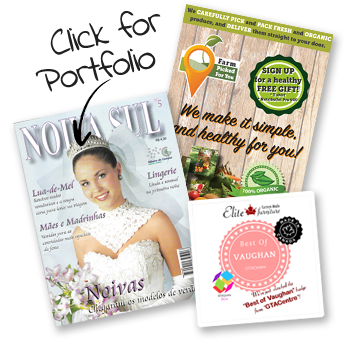
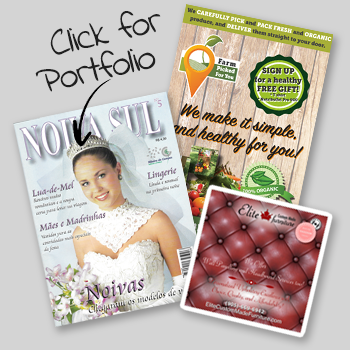
new landing page with new font and images

diff --git a/app/page.js b/app/page.js
@@ -6,6 +6,7 @@ import HomeHero from "@/components/Hero/HomeHero";
 //images
 import sample_work_1_M from "./../public/images/sample_work_1_M.png";
 import sample_work_1_L from "./../public/images/sample_work_1_L.png";
+import sample_work_Larger from "./../public/images/sample_Larger.png";
 import bottomrip from "./../public/images/transition2.png";
 import toprip from "./../public/images/transition1.png";
 //files
@@ -44,6 +45,11 @@ export default function Home() {
           <Image
             src={sample_work_1_L}
             className={`${styles.main__sampleWork_L}`}
+            alt="sample work"
+          />
+          <Image
+            src={sample_work_Larger}
+            className={`${styles.main__sampleWork_Larger}`}
             alt="sample work"
           />
         </Link>
@@ -148,22 +154,23 @@ export default function Home() {
           />
         </Link>
         <section className={`${styles.main__paragraphBlock_C}`}>
-          <p className={`${styles.main__paragraphIndie} ${indie.className}`}>
-            &ldquo; Curious about who is behind the scenes? Dive into the
-            captivating narratives of the
+          <p className={`${styles.main__paragraph} ${styles.main__firstP}`}>
+            Curious about who is behind the scenes? Dive into the captivating
+            narratives of the{" "}
             <Link className={`${styles.main__pageLink}`} href={"/about"}>
-              &nbsp;&ldquo;ABOUT&ldquo;&nbsp;
-            </Link>
+              ABOUT
+            </Link>{" "}
             and
             <Link className={`${styles.main__pageLink}`} href={"/portfolio"}>
-              &nbsp;&ldquo;PORTFOLIO&ldquo;&nbsp;
-            </Link>
-            section, where you&apos;ll learn more about the essence of my
+              {" "}
+              PORTFOLIO
+            </Link>{" "}
+            section, where you will learn more about the essence of my
             professional journey, and the driving force behind my work.
           </p>
-          <p className={`${styles.main__paragraphIndie} ${indie.className}`}>
+          <p className={`${styles.main__paragraph}`}>
             Let&apos;s create something extraordinary together. I can&apos;t
-            wait to connect with you! &ldquo;
+            wait to connect with you!
           </p>
         </section>
       </section>

diff --git a/app/page.module.scss b/app/page.module.scss
@@ -74,6 +74,9 @@
   &__sampleWork_L {
     display: none;
   }
+  &__sampleWork_Larger {
+    display: none;
+  }
   &__dLoad {
     margin: 0px 0px 80px 0px;
   }
@@ -264,7 +267,7 @@
     margin-top: 40px;
   }
   &__pageLink {
-    color: $yellow;
+    color: $red;
   }
 }
 
@@ -278,6 +281,7 @@
       margin-top: 60px;
     }
     &__wrapperBottom {
+      @include flex-row-start-start;
       width: 740px;
     }
     &__sampleWork_M {
@@ -308,11 +312,10 @@
       width: 740px;
       @include flex-row-spaceevenly-start-wrap;
       margin-top: 20px;
-      border-radius: 8px;
       padding: 20px;
     }
     &__paragraphBlock_C {
-      width: 640px;
+      width: 100%;
     }
 
     &__bottomrip {
@@ -349,11 +352,15 @@
       width: 1000px;
     }
     &__wrapperBottom {
+      @include flex-row-center-center;
       width: 1000px;
     }
-    &__sampleWork_L {
+    &__sampleWork_Larger {
       display: block;
-      margin: 50px 0px 50px 10px;
+      margin: 50px 0px 50px 0px;
+    }
+    &__sampleWork_L {
+      display: none;
     }
     &__paragraphBlockWrap {
       @include flex-row-spacearound-start;
@@ -374,10 +381,11 @@
       @include flex-row-spaceevenly-start-wrap;
     }
     &__paragraphBlock_C {
-      width: 800px;
+      @include flex-column-center-center;
+      width: 1000px;
     }
     &__paragraphBlock_C > p {
-      width: 800px;
+      width: 100%;
     }
     &__paragraph {
       width: 950px;
@@ -472,9 +480,9 @@
     &__wrapperMid {
       width: 1312px;
     }
-    &__wrapperBottom {
-      width: 1312px;
-    }
+    // &__wrapperBottom {
+    //   width: px;
+    // }
     &__sampleWork_L {
       margin: 50px 0px 50px 20px;
     }
